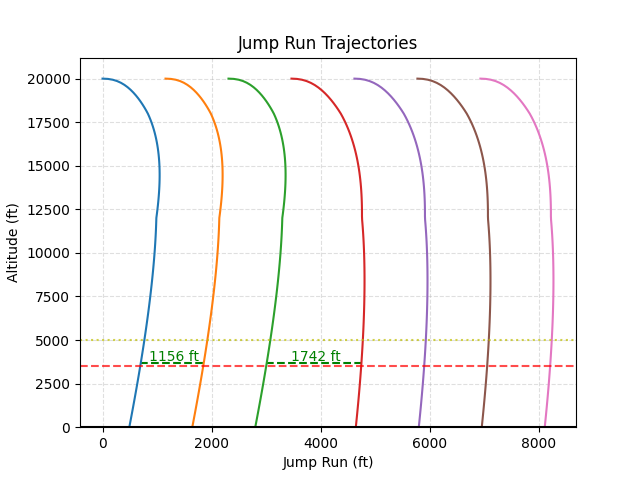
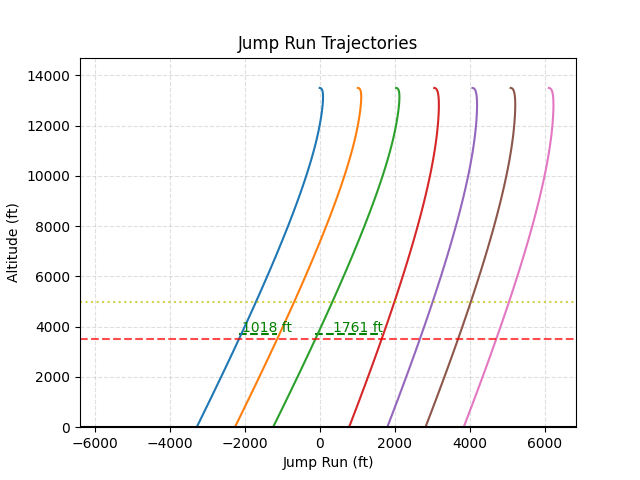
Fixed x adjustment to use trapezoidal rule on ground speed over time, created generic_plot function

diff --git a/main.py b/main.py
@@ -4,7 +4,8 @@
 #       constant angle with respect to the ground with an initial vert/horiz
 #       speed based on whatever it is at z = 5000)
 # TODO: Verify/fix freefly CD and A values to reflect real data
-# TODO: Clean up / Comment code
+#       NOTE: This will only be possible once I have reliable flysight data for
+#       a solo belly jump with known parameters (weight, winds, etc.)
 # TODO: Add option to import data from CSV file of the load, including number
 #       of groups, discipline for each group, average mass of the group, etc.
 # TODO: Add in y[t] to be able to create 3D plots
@@ -12,6 +13,10 @@
 #       skydiver.py and make it rho[z] with interpolation. Might be difficult,
 #       but I guess I can just compute z[t] first, using z[t-1] as the index 
 #       for rho[z] -- so z[t] = f(rho[z[t-1]]). Do this on a new branch probs
+# TODO: Verify that I am doing x calculation correctly, using trapezoid rule of
+#       u[t] rather than the compute_x function, which only calculates x in the
+#       air reference frame
+# TODO: Clean up / Comment code
 
 # Python Built-In imports
 import time
@@ -56,15 +61,22 @@ def find_nearest(array, value):
 
 def adjust_for_uppers(u, x, z, jump_run, winds):
     for t in range(len(u)):
-        u_adj = wind.compute_wind_adj(jump_run, z[t], winds)[0]
+        # Get velocity adjustment based on velocity of air column at given t, in ft/s
+        u_adj = wind.compute_wind_adj(jump_run, z[t], winds)[0] * const.KT_TO_FPS
 
-        # u (x velocity) adjustment DEBUG
-        uadj_debug = False
-        if uadj_debug is True:
-            print("altitude = " + str(z[t]) + " u[t] = " + str(u[t]) + ", u_adj = " + str(u_adj))
-        
+        # Adjust u[t] to be GROUND speed over time, adjusting for movement of 
+        # wind column, which is captured by u_adj
         u[t] = u[t] + u_adj
-        x[t] = x[t] + u_adj*t 
+
+        # At time zero, x is 0, so no adjustment needs to be made
+        if t == 0:
+            continue
+
+        # Calculate GROUND x distance over time by using the trapezoidal rule,
+        # which is just the area under the ground velocity curve
+        # np.trapz below is same as u[t-1]*(1 second) + (u[t] - u[t-1])/2
+        x[t] = x[t-1] + np.trapz([u[t-1], u[t]], [t-1, t], axis=0) 
+
     return u, x
 
 def plot_trajectories(trajectories):
@@ -162,33 +174,40 @@ def main_menu(winds):
                 print_title()
                 print(colored("Invalid entry, input must be between 1 and " + \
                               str(len(options)) + ".\n", 'red'))
-            elif ans == 1: 
+            elif ans == 1: # Print winds aloft (ACY) 
                 print_title()
                 rec_jump_run, rec_t_sep = wind.print_winds(winds, params.aircraft, params.EXIT_ALT)
                 print("")
-            elif ans == 2:
+            elif ans == 2: # Print simulation paramters
                 print_title()
                 params.show(False)
-            elif ans == 3:
+            elif ans == 3: # Modify simulation parameters
                 params.setup()
                 print_title()
-            elif ans == 4:
+            elif ans == 4: # Enable debug options
                 print_title()
                 print(colored("Option 4 is currently under construction...\n", 'cyan'))
-            elif ans == 5:
+            elif ans == 5: # Set jump run and exit separation to optimal values
                 rec_jump_run, rec_t_sep = wind.print_winds(winds, params.aircraft, params.EXIT_ALT)
                 params.jump_run = rec_jump_run
                 params.t_sep = rec_t_sep
                 print_title()
                 params.show(False)
-            elif ans == 6:
+            elif ans == 6: # Run simulation
                 return
         except ValueError:
             print_title()
             print(colored("Invalid entry, input must be a number.\n", 'red'))
             continue
             
-
+def generic_plot(x, y, fid, title, xlabel, ylabel, filename):
+    plt.figure(fid)
+    plt.plot(x, y)
+    plt.grid(alpha=.4,linestyle='--')
+    plt.title(title)
+    plt.xlabel(xlabel)
+    plt.ylabel(ylabel)
+    plt.savefig(filename)
 
 if __name__ == "__main__":
     # Initialize params class, which will prompt user to setup parameter values
@@ -200,7 +219,7 @@ if __name__ == "__main__":
     # Winds
     winds = wind.get_forecast()
 
-    # Aircraft speeds TODO: Verify these!
+    # Aircraft speeds TODO: Verify these! Units in knots
     aircraft_speeds = {
         "Caravan"   : 70,
         "Otter"     : 60,
@@ -215,7 +234,8 @@ if __name__ == "__main__":
     z0 = params.EXIT_ALT                        # Initial Altitude in feet
     m = params.weight / const.g                 # Jumper mass in slugs
     Va = aircraft_speeds.get(params.aircraft)   # Aircraft airspeed in knots
-    num_groups = params.num_rw_groups + params.num_ff_groups
+    num_groups = params.num_rw_groups + \
+                 params.num_ff_groups
     sim_time = num_groups * 20                  # Simulation time in seconds
     sim_time = 120                              # TODO: Figure out how to make 
                                                 # this dynamic, since the above 
@@ -244,6 +264,8 @@ if __name__ == "__main__":
 
     # Compute x and z positions and velocities for each group on the load,
     # converting speeds from knots to m/s first
+    # NOTE: compute_x not really necessary, since we compute the x distance in
+    # the ground refernce frame when we call adjust_for_uppers
     trajectories = []
     for i, jumper in enumerate(load):
         if i < params.num_rw_groups:
@@ -263,19 +285,16 @@ if __name__ == "__main__":
             x = jumper.compute_x(t, i*x_offset, Va*const.KT_TO_FPS, Q)
             z = jumper.compute_z(t, z0, Va*const.KT_TO_FPS, Q)
 
-        # Convert speed back to knots for adjusting for winds
-        u = u / const.KT_TO_FPS
-
         # Account for drift due to uppers    
         if simple_winds is True:
-            u = u - V_upper
-            x = x - V_upper*t
+            u = u - V_upper*const.KT_TO_FPS
+            x = x - V_upper*const.KT_TO_FPS*t # Okay since V_upper is constant
         else:
             u, x = adjust_for_uppers(u, x, z, params.jump_run, winds)
 
         trajectories.append({
-            "u" : u*const.KT_TO_FPS*const.FPS_TO_MPH,
-            "w" : w*const.FPS_TO_MPH,
+            "u" : u*const.KT_TO_FPS*const.FPS_TO_MPH, # Convert to MPH for plots
+            "w" : w*const.FPS_TO_MPH,                 # Convert to MPH for plots
             "x" : x,
             "z" : z
         })
@@ -301,41 +320,25 @@ if __name__ == "__main__":
     # Full load, all groups 
     plot_trajectories(trajectories)
 
-    # Single jumper vertical speed - TODO: Make this its own function (with horiz speed)
-    plt.figure(2)
-    plt.plot(t, trajectories[0]['w'])
-    plt.grid(alpha=.4,linestyle='--')
-    plt.title("Vertical Speed vs. Time (First Group)")
-    plt.xlabel("Time (s)")
-    plt.ylabel("Vertical Speed (mph)")
-    plt.savefig("vert_speed_first_grp.png")
+    # Single jumper vertical speed - Belly group
+    generic_plot(t, trajectories[0]['w'], 2, \
+                 "Vertical Speed vs. Time (First Group)", "Time (s)", \
+                 "Vertical Speed (mph)", "vert_speed_first_grp.png")
 
-    # Single jumper horizontal speed
-    plt.figure(3)
-    plt.plot(t, trajectories[0]['u'])
-    plt.grid(alpha=.4,linestyle='--')
-    plt.title("Horizontal Speed vs. Time (First Group)")
-    plt.xlabel("Time (s)")
-    plt.ylabel("Horizontal Speed (mph)")
-    plt.savefig("horiz_speed_first_grp.png")
+    # Single jumper horizontal speed - Belly group
+    generic_plot(t, trajectories[0]['u'], 3, \
+                 "Horizontal Speed vs. Time (First Group)", "Time (s)", \
+                 "Horizontal Speed (mph)", "horiz_speed_first_grp.png")
 
-    # Single jumper vertical speed - TODO: Make this its own function (with horiz speed)
-    plt.figure(4)
-    plt.plot(t, trajectories[len(trajectories)-1]['w'])
-    plt.grid(alpha=.4,linestyle='--')
-    plt.title("Vertical Speed vs. Time (Last Group)")
-    plt.xlabel("Time (s)")
-    plt.ylabel("Vertical Speed (mph)")
-    plt.savefig("vert_speed_last_grp.png")
+    # Single jumper vertical speed - Freefly group
+    generic_plot(t, trajectories[len(trajectories)-1]['w'], 4, \
+                 "Vertical Speed vs. Time (Last Group)", "Time (s)", \
+                 "Vertical Speed (mph)", "vert_speed_last_grp.png")
 
-    # Single jumper horizontal speed
-    plt.figure(5)
-    plt.plot(t, trajectories[len(trajectories)-1]['u'])
-    plt.grid(alpha=.4,linestyle='--')
-    plt.title("Horizontal Speed vs. Time (Last Group)")
-    plt.xlabel("Time (s)")
-    plt.ylabel("Horizontal Speed (mph)")
-    plt.savefig("horiz_speed_last_grp.png")
+    # Single jumper horizontal speed - Freefly group
+    generic_plot(t, trajectories[len(trajectories)-1]['u'], 5, \
+                 "Horizontal Speed vs. Time (Last Group)", "Time (s)", \
+                 "Horizontal Speed (mph)", "horiz_speed_last_grp.png")
 
     # Open one of the plots with eog (use arrows to see other PNGs)
     processes.append(sp.Popen("eog z_vs_x_all_groups.png &", shell=True))

diff --git a/winds.py b/winds.py
@@ -94,10 +94,8 @@ def compute_wind_adj(jump_run, altitude, winds):
         theta = np.deg2rad(np.abs(winds[3000][0] - jump_run))
         speed = winds[3000][1]
 
-    #print("altitude = " + str(altitude) + ", theta = " + str(np.rad2deg(theta)) + ", speed = " + str(speed))
-
-    #speed = speed * const.KT_TO_MPS
-        
+       
+    # Return u_adj, v_adj in knots
     return (speed*np.cos(theta), speed*np.sin(theta))
 
 def print_winds(winds, aircraft, exit_alt):
